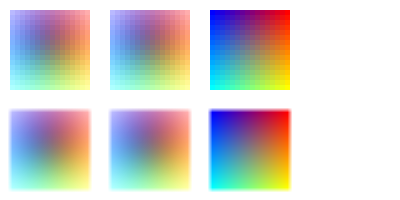
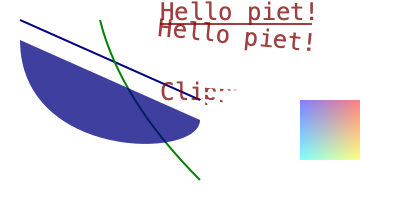
improve text layout with skribo

diff --git a/piet-raqote/src/lib.rs b/piet-raqote/src/lib.rs
@@ -8,7 +8,7 @@ use font_kit::family_name::FamilyName;
 use font_kit::properties::Properties;
 use font_kit::source::SystemSource;
 
-use std::borrow::Cow;
+use skribo::{make_layout, TextStyle, Layout, FontCollection, FontRef};
 
 use piet::{
     new_error, Error, ErrorKind, FillRule, Font, FontBuilder, Gradient, GradientStop, ImageFormat,
@@ -52,7 +52,7 @@ pub struct RaqoteText;
 
 #[derive(Clone)]
 pub struct RaqoteFont {
-    font: font_kit::font::Font,
+    font: FontRef,
     size: f32,
 }
 
@@ -63,13 +63,15 @@ pub struct RaqoteFontBuilder {
 }
 
 pub struct RaqoteTextLayout {
+    // TODO: Store reference?
     font: RaqoteFont,
-    text: String,
+    layout: Layout,
 }
 
 pub struct RaqoteTextLayoutBuilder {
-  font: RaqoteFont,
-  text: String
+    // TODO: Store reference?
+    font: RaqoteFont,
+    text: String,
 }
 
 //We need this struct to avoid lifetime issues with raqote's Image type
@@ -183,10 +185,11 @@ fn convert_gradient_stops(stops: Vec<GradientStop>) -> Vec<raqote::GradientStop>
 }
 
 impl<'a> RenderContext for RaqoteRenderContext<'a> {
-    // TODO: Maybe this should be a (f32, f32)?
+    // TODO: this should be a raqote Point (might have to wrap to impl as f32)
     type Point = Vec2;
     type Coord = f32;
-    // QUESTION: rustc said this needs a liftime now so I chose this one
+
+    // The render context must outlive the brush 
     type Brush = Source<'a>;
 
     //QUESTION Text should of type TextLayout??
@@ -318,13 +321,22 @@ impl<'a> RenderContext for RaqoteRenderContext<'a> {
         let pos = pos.round_into();
 
         //TODO hardcoded dt height to fix the Y position (counts from bottom, not top)
-        let point = Point::new(pos.x as f32, 100.0 - pos.y as f32);
+        // let point = Point::new(pos.x as f32, 100.0 - pos.y as f32);
+        let positions = layout.layout.glyphs
+            .iter()
+            .map(|glyph| Point::new(glyph.offset.x + pos.x as f32, glyph.offset.y + pos.y as f32))
+            .collect::<Vec<Point>>();
 
-        self.draw_target.draw_text(
-            &layout.font.font,
+        let glyphs = layout.layout.glyphs
+            .iter()
+            .map(|glyph| glyph.glyph_id)
+            .collect::<Vec<u32>>();
+
+        self.draw_target.draw_glyphs(
+            &layout.font.font.font,
             layout.font.size,
-            &layout.text,
-            point,
+            &glyphs,
+            &positions,
             brush,
             &DrawOptions::default()
         );
@@ -424,8 +436,6 @@ impl<'a> RenderContext for RaqoteRenderContext<'a> {
     ) {
         let rect = rect.into();
 
-
-        //TODO: I don't know how to get a non-reference of image other than this dumb thing
         let raqote_image = raqote::Image {
           width: image.width as i32,
           height: image.height as i32,
@@ -470,11 +480,11 @@ impl Text for RaqoteText {
         font: &Self::Font,
         text: &str,
     ) -> Result<Self::TextLayoutBuilder, Error> {
-        let text_layout_builder = RaqoteTextLayoutBuilder {
+        Ok(RaqoteTextLayoutBuilder {
             font: font.clone(),
+            // TODO: Store a reference?
             text: text.to_owned(),
-        };
-        Ok(text_layout_builder)
+        })
     }
 }
 
@@ -483,13 +493,13 @@ impl FontBuilder for RaqoteFontBuilder {
 
     fn build(self) -> Result<Self::Out, Error> {
         let font = SystemSource::new()
-            .select_best_match(&[FamilyName::SansSerif], &self.properties)
+            .select_best_match(&[FamilyName::Title(self.family), FamilyName::SansSerif], &self.properties)
             .unwrap()
             .load()
             .unwrap();
 
         Ok(RaqoteFont {
-            font: font,
+            font: FontRef::new(font),
             size: self.size,
         })
     }
@@ -502,11 +512,14 @@ impl TextLayoutBuilder for RaqoteTextLayoutBuilder {
     type Out = RaqoteTextLayout;
 
     fn build(self) -> Result<Self::Out, Error> {
-      //TODO we could possibly calculate width here? 
-        Ok(RaqoteTextLayout {
-          font: self.font,
-          text: self.text,
-        })
+        let layout = make_layout(&TextStyle { size: self.font.size }, &self.font.font, &self.text);
+        
+        let text_layout = RaqoteTextLayout {
+            font: self.font.clone(),
+            layout
+        };
+
+        Ok(text_layout)
     }
 }
 
@@ -514,7 +527,6 @@ impl TextLayout for RaqoteTextLayout {
     type Coord = f32;
 
     fn width(&self) -> f32 {
-        //TODO what number should this actually be?
-        20.0 
+        self.layout.advance.x
     }
 }
